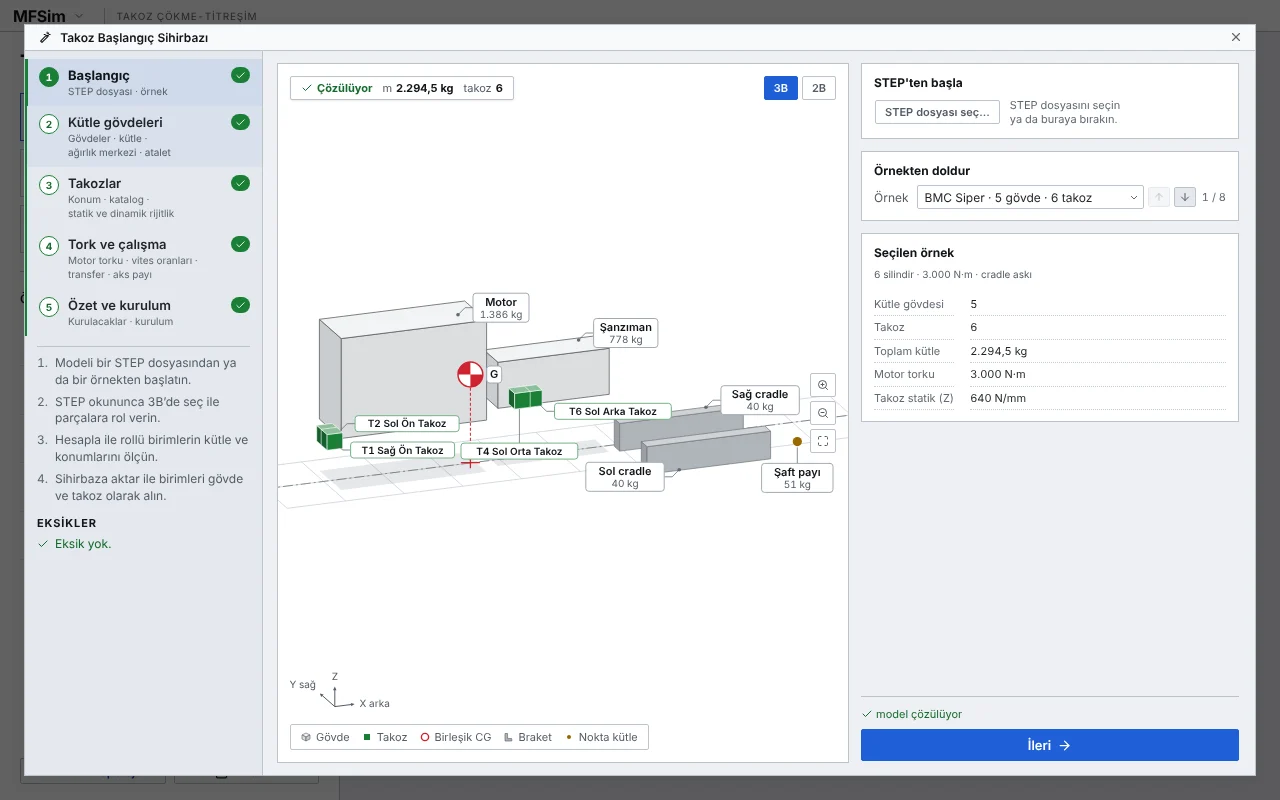
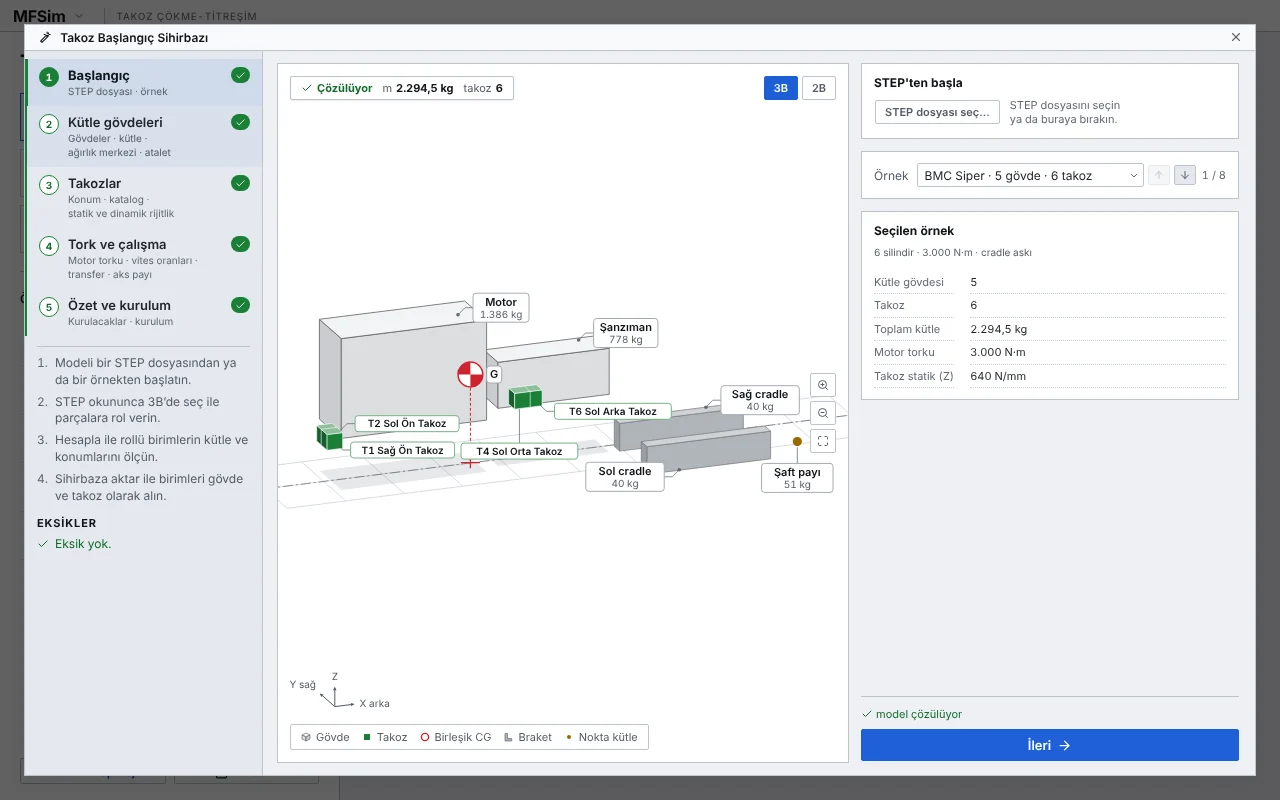
Canlı not 151–155 · 157: sonuç görüntüleri, kılavuz ve görüntüleyici
Notların sonuç görüntüleri (Son değişiklikler), kılavuzun sihirbaz · tuval
· palet görüntüleri (Başlangıç sütunu, yeni Takoz simgesi) ve Ölçüm
Görüntüleyici'nin derlemesi (Tip okları ve teknik resim penceresinin CSS'i).

Claude-Session: https://claude.ai/code/session_01KpdSQRdhtgMzMJyCqXgQ4V

Changed region(s): [[0.6875, 0.1875, 0.9688, 0.5312]]

diff --git a/MFSim_Olcum_Goruntuleyici.html b/MFSim_Olcum_Goruntuleyici.html
@@ -4521,6 +4521,23 @@ html.ve-sayfa-diger #ve-properties-overlay{ display:none !important; }
 .mntlib-bilgi:hover{ border-color:var(--accent-primary); color:var(--ink-accent); }
 .mntlib-bilgi:focus-visible{ outline:none; box-shadow:var(--focus-ring); }
 .mntlib-bilgi .mf-ico{ width:14px; height:14px; }
+/* Tipler arasında gezen iki ok (Canlı Not 155): satırın SONUNDA bitişik çift, (i)'nin sağında —
+   (i) tipten tipe gelip gittiğinde oklar farenin altında kalır. Uçtaki ok kapalı: aria-disabled
+   (odak okta kalır), ikonu soluk, sebebi ipucunda. */
+.mntlib-adimlar{ flex:none; display:inline-flex; }
+.mntlib-adim{
+  display:inline-flex; align-items:center; justify-content:center;
+  width:22px; height:26px; padding:0; cursor:pointer;
+  color:var(--text-muted); background:var(--bg-input);
+  border:1px solid var(--border-color); border-radius:var(--radius-sm) 0 0 var(--radius-sm);
+  transition:border-color var(--dur-fast) var(--ease-out), color var(--dur-fast) var(--ease-out);
+}
+.mntlib-adim + .mntlib-adim{ margin-left:-1px; border-radius:0 var(--radius-sm) var(--radius-sm) 0; }
+.mntlib-adim:hover:not([aria-disabled="true"]){ position:relative; border-color:var(--accent-primary); color:var(--ink-accent); }
+.mntlib-adim:focus-visible{ position:relative; outline:none; box-shadow:var(--focus-ring); }
+.mntlib-adim[aria-disabled="true"]{ cursor:default; }
+.mntlib-adim[aria-disabled="true"] .mf-ico{ opacity:.35; }
+.mntlib-adim .mf-ico{ width:14px; height:14px; }
 .mntlib-sec > .mntlib-add{ grid-area:1 / 3; }
 .mntlib-trigger{
   display:flex;align-items:center;gap:8px;width:100%;height:26px;
@@ -11638,6 +11655,12 @@ button.ve-bas-degisiklik-bas:focus-visible{ outline:none; box-shadow:var(--focus
   display:block; width:auto; height:auto; margin:0 auto;
   max-width:calc(100vw - 74px); max-height:calc(100vh - 74px - var(--bant-h));
   box-sizing:border-box; border:1px solid var(--border-color); background:var(--bg-primary);
+}
+/* Üst sınırlı görsel (teknik resim, Canlı Not 154): uzun kenarı en çok `--ve-bas-azami` (js:
+   veBasResimGoster → azami), oranı korunur (genişlik ve boy auto); dar ekranda yine ekrana sığar */
+.ve-bas-buyuk-pencere[data-azami] .ve-bas-buyuk-govde img{
+  max-width:min(var(--ve-bas-azami, 100vw), calc(100vw - 74px));
+  max-height:min(var(--ve-bas-azami, 100vh), calc(100vh - 74px - var(--bant-h)));
 }
 .ve-bas-satir{ border-bottom:1px solid var(--bg-tertiary); }
 .ve-bas-satir:hover{ background:color-mix(in srgb, var(--bg-primary) 45%, var(--bg-secondary)); }
